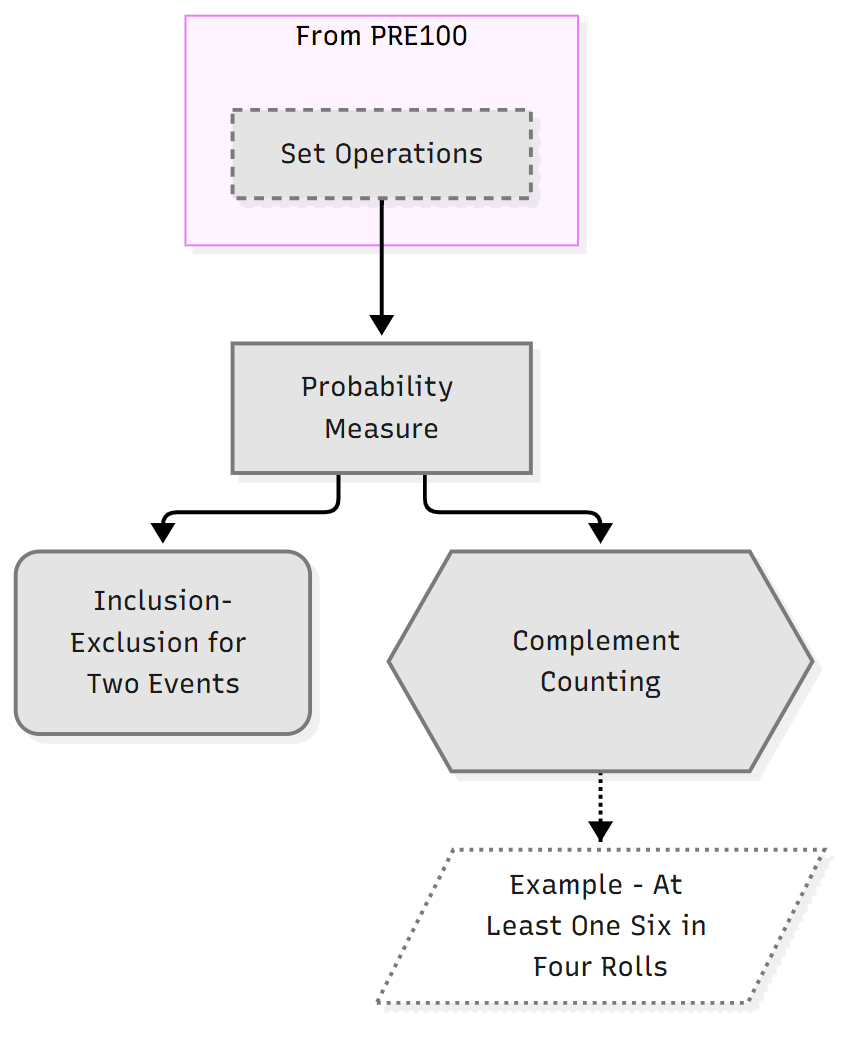
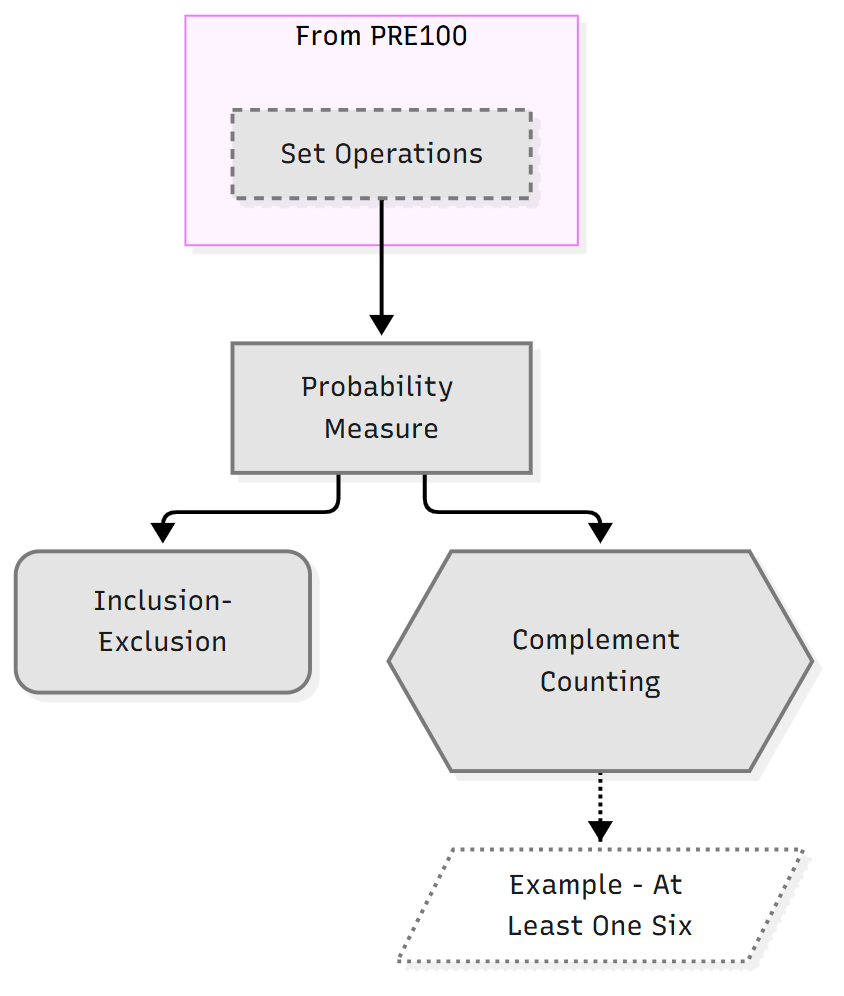
Shorter example-course paths; note the Windows long-path fix
The marketplace clone checks out vault-template, whose longest path was
106 characters; from a deep Claude config folder that passed the Windows
260-character limit. Renamed the example module and three notes (longest
path now 82), regenerated the roadmap and README image, and added the
core.longpaths fix to SETUP.

diff --git a/vault-template/Courses/COURSE101/1 Axioms/1 Axioms.md b/vault-template/Courses/COURSE101/1 Axioms/1 Axioms.md
@@ -1,18 +1,18 @@
 ---
-title: "1 Probability Spaces"
+title: "1 Axioms"
 type: moc
 course: COURSE101
-module: "Probability Spaces"
+module: "Axioms"
 created: 2026-01-01
 updated: 2026-01-01
 status: growing
 ---
 
-# 1 Probability Spaces
+# 1 Axioms
 
 What a probability is, formally: a function on events obeying three axioms, and the first rules that follow from them.
 
-Overview: [[COURSE101 Lecture 1 Overview - Probability Spaces]]
+Overview: [[COURSE101 Lecture 1 Overview - Axioms]]
 
 %% roadmap:start %%
 ## Roadmap
@@ -22,9 +22,9 @@ Generated by `/learn:roadmap` from `depends_on`; everything between the roadmap 
 ```mermaid
 flowchart TD
     n001["Probability Measure"]
-    n002("Inclusion-Exclusion for Two Events")
+    n002("Inclusion-Exclusion")
     n003{{"Complement Counting"}}
-    n005[/"Example - At Least One Six in Four Rolls"/]
+    n005[/"Example - At Least One Six"/]
     subgraph s1["From PRE100"]
       n004["Set Operations"]
     end
@@ -54,16 +54,16 @@ Shapes: rectangle definition, rounded box theorem, hexagon method, stadium conce
 - [[Probability Measure]]: a function on events satisfying Kolmogorov's three axioms
 
 ## Theorems
-- [[Inclusion-Exclusion for Two Events]]: $P(A \cup B) = P(A) + P(B) - P(A \cap B)$
+- [[Inclusion-Exclusion]]: $P(A \cup B) = P(A) + P(B) - P(A \cap B)$
 
 ## Proofs
-- [[Proof - Inclusion-Exclusion for Two Events]]
+- [[Proof - Inclusion-Exclusion]]
 
 ## Methods
 - [[Complement Counting]]: compute $P(A)$ as $1 - P(A^c)$ when the complement is simpler
 
 ## Examples
-- [[Example - At Least One Six in Four Rolls]]
+- [[Example - At Least One Six]]
 
 ## Connections to other modules
 - Depends on: [[Set Operations]]

diff --git a/plugin/skills/method/SKILL.md b/plugin/skills/method/SKILL.md
@@ -83,15 +83,15 @@ A primer gives the big picture of a **unit** before any of its nodes is taught: 
 
 **Sources.** Build primers from the vault notes, lecture slides and textbook only. The course's Exam Profile may be used for exam style, never for a question's substance.
 
-**The note.** `<CODE> <Unit> Overview - <Title>.md` (for example `COURSE101 Lecture 1 Overview - Probability Spaces.md`), in the module folder that holds most of the unit's nodes:
+**The note.** `<CODE> <Unit> Overview - <Title>.md` (for example `COURSE101 Lecture 1 Overview - Axioms.md`), in the module folder that holds most of the unit's nodes:
 
 ```
 ---
-title: "COURSE101 Lecture 1 Overview - Probability Spaces"
+title: "COURSE101 Lecture 1 Overview - Axioms"
 type: moc
 primer: true
 course: COURSE101
-module: "Probability Spaces"
+module: "Axioms"
 unit: 1
 sources: ["[[COURSE101 Lecture Notes]]"]
 created: YYYY-MM-DD
@@ -215,7 +215,7 @@ The body holds the plan as a small Mermaid diagram (plain labels, no `internal-l
 
 **Learner Profile:** append dated observations (pace, recurring confusions, what worked) under "Observations". If the profile has `human_authored: true`, do not edit it; mention the observation in chat instead.
 
-**Operation log:** append one line per run to `_meta/log.md` under a day-month-year heading, for example `teach | COURSE101 Probability Spaces: 2 passed, 1 failed, 2 errors logged`.
+**Operation log:** append one line per run to `_meta/log.md` under a day-month-year heading, for example `teach | COURSE101 Axioms: 2 passed, 1 failed, 2 errors logged`.
 
 ## Tone
 

diff --git a/vault-template/Courses/COURSE101/1 Axioms/Complement Counting.md b/vault-template/Courses/COURSE101/1 Axioms/Complement Counting.md
@@ -2,14 +2,14 @@
 title: "Complement Counting"
 type: method
 course: COURSE101
-module: "Probability Spaces"
+module: "Axioms"
 section: "1.3"
 lecture: 1
 created: 2026-01-01
 updated: 2026-01-01
 status: growing
 depends_on: ["[[Probability Measure]]"]
-used_in: ["[[Example - At Least One Six in Four Rolls]]"]
+used_in: ["[[Example - At Least One Six]]"]
 examinable: true
 ---
 
@@ -20,7 +20,7 @@ examinable: true
 
 ## When to use
 - The event says "at least one", "not all" or "some": its complement is "none" or "all", usually a single case.
-- Often confused with adding the cases of $A$ directly, which double-counts when the cases overlap (see [[Inclusion-Exclusion for Two Events]]).
+- Often confused with adding the cases of $A$ directly, which double-counts when the cases overlap (see [[Inclusion-Exclusion]]).
 
 ## Steps
 1. Write $A^c$ in words and check that $A$ and $A^c$ together cover $\Omega$ with no overlap.
@@ -28,11 +28,11 @@ examinable: true
 3. $P(A) = 1 - P(A^c)$, because $A$ and $A^c$ are disjoint with union $\Omega$, so $P(A) + P(A^c) = P(\Omega) = 1$ by [[Probability Measure]].
 
 ## Worked example
-- See [[Example - At Least One Six in Four Rolls]].
+- See [[Example - At Least One Six]].
 
 ## Common mistakes
 - Taking the complement of "at least one" as "at least one fails" rather than "none".
 - Multiplying probabilities for the complement without independence.
 
 ## Related
-- [[Inclusion-Exclusion for Two Events]]
+- [[Inclusion-Exclusion]]

diff --git a/vault-template/Courses/COURSE101/COURSE101 Roadmap.md b/vault-template/Courses/COURSE101/COURSE101 Roadmap.md
@@ -21,7 +21,7 @@ One box per module. An arrow from A to B means notes in B depend on notes in A, 
 
 ```mermaid
 flowchart TD
-    n001["1 Probability Spaces"]
+    n001["1 Axioms"]
     classDef unseen fill:#e4e4e4,stroke:#7a7a7a,color:#1a1a1a
     classDef learning fill:#f6cf72,stroke:#a86a12,color:#1a1a1a
     classDef secure fill:#9ec5f0,stroke:#2b5f9e,color:#1a1a1a
@@ -37,7 +37,7 @@ flowchart TD
 
 Prerequisites from earlier courses, by module (details under Connections to other courses):
 
-- PRE100: 1 Probability Spaces (2)
+- PRE100: 1 Axioms (2)
 
 ## Spine
 
@@ -67,10 +67,10 @@ Shapes: rectangle definition, rounded box theorem, hexagon method, stadium conce
 
 A prerequisite-first order within each module, in the course's module order. Plain names on purpose, so the roadmap adds no graph edges; open notes from the diagrams.
 
-### 1 Probability Spaces
+### 1 Axioms
 
 1. Probability Measure
-2. Inclusion-Exclusion for Two Events (proof: Proof - Inclusion-Exclusion for Two Events)
+2. Inclusion-Exclusion (proof: Proof - Inclusion-Exclusion)
 3. Complement Counting
 
 ## Connections to other courses
@@ -79,7 +79,7 @@ A prerequisite-first order within each module, in the course's module order. Pla
 
 **PRE100**
 
-- Set Operations: used by Inclusion-Exclusion for Two Events, Probability Measure
+- Set Operations: used by Inclusion-Exclusion, Probability Measure
 
 ### Where this course is used elsewhere
 

diff --git a/vault-template/CLAUDE.md b/vault-template/CLAUDE.md
@@ -28,7 +28,7 @@ This vault holds course notes in small linked pieces, plus the learner's progres
 | Note templates | `Templates/` |
 | Engine settings | `vault-learning.yaml` |
 
-Module folders are number-prefixed in syllabus order (`1 Probability Spaces/`, `2 Conditional Probability/`). Note filenames are not prefixed: the concept name is the identity. Notes sit flat in their module folder.
+Module folders are number-prefixed in syllabus order (`1 Axioms/`, `2 Conditional Probability/`). Note filenames are not prefixed: the concept name is the identity. Notes sit flat in their module folder.
 
 ## Atomic notes: one concept per note
 
@@ -53,7 +53,7 @@ Module folders are number-prefixed in syllabus order (`1 Probability Spaces/`, `
 title: "..."
 type: definition
 course: COURSE101
-module: "Probability Spaces"          # matches the folder, without the number
+module: "Axioms"          # matches the folder, without the number
 section: "1.2"                        # the source's numbered item, or slide and page
 lecture: 1                            # optional: the lecture that covers it
 created: YYYY-MM-DD

diff --git a/vault-template/Courses/COURSE101/1 Axioms/COURSE101 Lecture 1 Overview - Axioms.md b/vault-template/Courses/COURSE101/1 Axioms/COURSE101 Lecture 1 Overview - Axioms.md
@@ -1,9 +1,9 @@
 ---
-title: "COURSE101 Lecture 1 Overview - Probability Spaces"
+title: "COURSE101 Lecture 1 Overview - Axioms"
 type: moc
 primer: true
 course: COURSE101
-module: "Probability Spaces"
+module: "Axioms"
 unit: 1
 sources: []
 created: 2026-01-01
@@ -11,7 +11,7 @@ updated: 2026-01-01
 status: growing
 ---
 
-# COURSE101 Lecture 1 Overview - Probability Spaces
+# COURSE101 Lecture 1 Overview - Axioms
 
 **The question:** what does it mean, precisely, to assign probabilities to events, and which rules follow without further assumptions?
 
@@ -30,7 +30,7 @@ flowchart LR
 
 1. Events are subsets of the sample space: [[Set Operations]]
 2. A probability is a function on events obeying three axioms: [[Probability Measure]]
-3. Overlaps are counted once: [[Inclusion-Exclusion for Two Events]]
+3. Overlaps are counted once: [[Inclusion-Exclusion]]
 4. "At least one" is easiest through its complement: [[Complement Counting]]
 
 ## Why it matters

diff --git a/vault-template/Courses/COURSE101/1 Axioms/Probability Measure.md b/vault-template/Courses/COURSE101/1 Axioms/Probability Measure.md
@@ -2,14 +2,14 @@
 title: "Probability Measure"
 type: definition
 course: COURSE101
-module: "Probability Spaces"
+module: "Axioms"
 section: "1.1"
 lecture: 1
 created: 2026-01-01
 updated: 2026-01-01
 status: growing
 depends_on: ["[[Set Operations]]"]
-used_in: ["[[Inclusion-Exclusion for Two Events]]", "[[Proof - Inclusion-Exclusion for Two Events]]", "[[Complement Counting]]"]
+used_in: ["[[Inclusion-Exclusion]]", "[[Proof - Inclusion-Exclusion]]", "[[Complement Counting]]"]
 examinable: true
 ---
 
@@ -32,9 +32,9 @@ examinable: true
 - A non-example: $m(A) = 1$ for every non-empty $A$ fails axiom 3, since $m(\{1\} \cup \{2\}) = 1 \neq m(\{1\}) + m(\{2\}) = 2$.
 
 ## Used in
-- [[Inclusion-Exclusion for Two Events]]
+- [[Inclusion-Exclusion]]
 - [[Complement Counting]]
 
 ## Related
 - Built on: [[Set Operations]]
-- See also: [[Example - At Least One Six in Four Rolls]]
+- See also: [[Example - At Least One Six]]

diff --git a/SETUP.md b/SETUP.md
@@ -70,6 +70,8 @@ Then add this repository as a plugin marketplace and install the plugin:
 /plugin install learn@learning-stack
 ```
 
+**Windows: "Filename too long".** Adding the marketplace clones this repository, and Windows limits paths to 260 characters by default. From a normal user folder the longest path stays well under that, but if your Claude config folder is unusually deep, run `git config --global core.longpaths true` and add the marketplace again.
+
 Restart Claude Code if it asks. The skills appear as `/learn:teach`, `/learn:quiz`, `/learn:primer`, `/learn:roadmap`, `/learn:ingest`, `/learn:connect`, `/learn:lecture`, `/learn:query` and `/learn:lint`.
 
 To avoid a permission prompt every time a skill runs the engine, allow it once when asked ("Yes, and don't ask again"), or add this to the vault's `.claude/settings.json`:

diff --git a/vault-template/Courses/COURSE101/1 Axioms/Inclusion-Exclusion.md b/vault-template/Courses/COURSE101/1 Axioms/Inclusion-Exclusion.md
@@ -1,8 +1,8 @@
 ---
-title: "Inclusion-Exclusion for Two Events"
+title: "Inclusion-Exclusion"
 type: theorem
 course: COURSE101
-module: "Probability Spaces"
+module: "Axioms"
 section: "1.2"
 lecture: 1
 created: 2026-01-01
@@ -13,7 +13,7 @@ used_in: []
 examinable: true
 ---
 
-# Inclusion-Exclusion for Two Events
+# Inclusion-Exclusion
 
 > [!theorem]
 > For any probability measure $P$ and any events $A, B \in \mathcal{F}$,
@@ -24,7 +24,7 @@ examinable: true
 - [[Set Operations]] (splitting a union into disjoint pieces)
 
 ## Proof
-See [[Proof - Inclusion-Exclusion for Two Events]].
+See [[Proof - Inclusion-Exclusion]].
 
 ## Intuition
 - Adding $P(A)$ and $P(B)$ counts the overlap $A \cap B$ twice, so subtract it once.

diff --git a/vault-template/Courses/COURSE101/1 Axioms/Proof - Inclusion-Exclusion.md b/vault-template/Courses/COURSE101/1 Axioms/Proof - Inclusion-Exclusion.md
@@ -1,8 +1,8 @@
 ---
-title: "Proof - Inclusion-Exclusion for Two Events"
+title: "Proof - Inclusion-Exclusion"
 type: proof
 course: COURSE101
-module: "Probability Spaces"
+module: "Axioms"
 section: "1.2"
 created: 2026-01-01
 updated: 2026-01-01
@@ -10,9 +10,9 @@ status: growing
 depends_on: ["[[Probability Measure]]", "[[Set Operations]]"]
 ---
 
-# Proof - Inclusion-Exclusion for Two Events
+# Proof - Inclusion-Exclusion
 
-**Theorem:** [[Inclusion-Exclusion for Two Events]]
+**Theorem:** [[Inclusion-Exclusion]]
 **Strategy:** direct, by splitting into disjoint pieces
 
 ## Setup

diff --git a/vault-template/Courses/COURSE101/1 Axioms/Example - At Least One Six.md b/vault-template/Courses/COURSE101/1 Axioms/Example - At Least One Six.md
@@ -1,8 +1,8 @@
 ---
-title: "Example - At Least One Six in Four Rolls"
+title: "Example - At Least One Six"
 type: example
 course: COURSE101
-module: "Probability Spaces"
+module: "Axioms"
 section: "1.3"
 created: 2026-01-01
 updated: 2026-01-01
@@ -10,7 +10,7 @@ status: growing
 depends_on: ["[[Complement Counting]]"]
 ---
 
-# Example - At Least One Six in Four Rolls
+# Example - At Least One Six
 
 **Illustrates:** [[Complement Counting]]
 

diff --git a/vault-template/Courses/COURSE101/COURSE101 Syllabus.md b/vault-template/Courses/COURSE101/COURSE101 Syllabus.md
@@ -16,6 +16,6 @@ Roadmap: [[COURSE101 Roadmap]] (generated dependency map, suggested order and da
 %% roadmap:end %%
 
 ## Modules
-1. [[1 Probability Spaces]]
+1. [[1 Axioms]]
 
 Earlier material it builds on: [[Set Operations]] (from the reference course PRE100).
